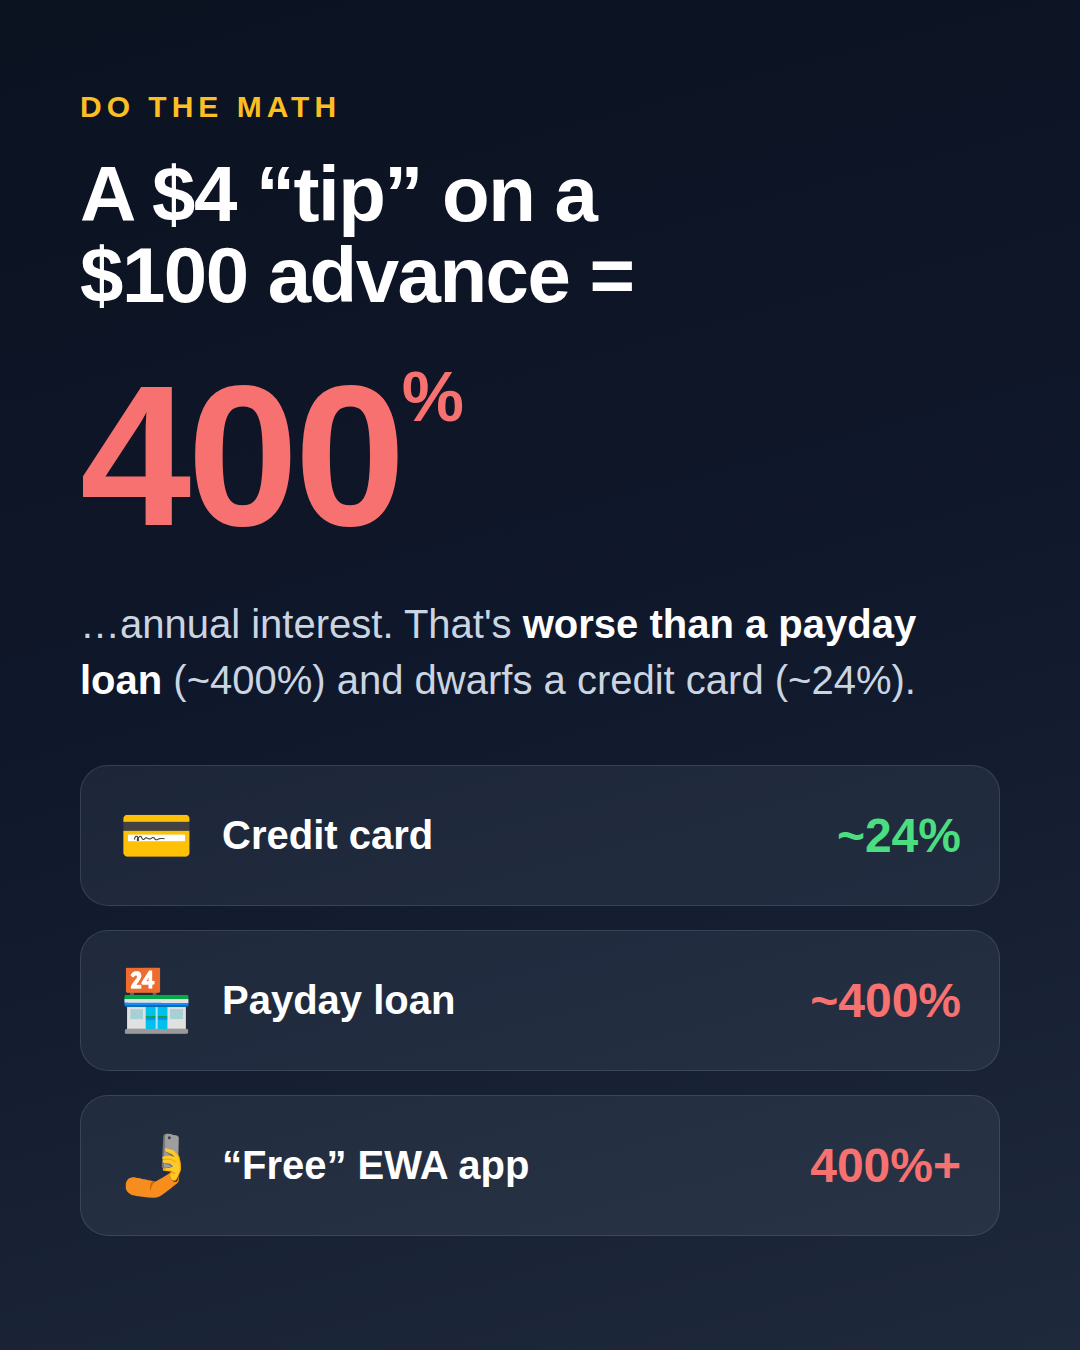
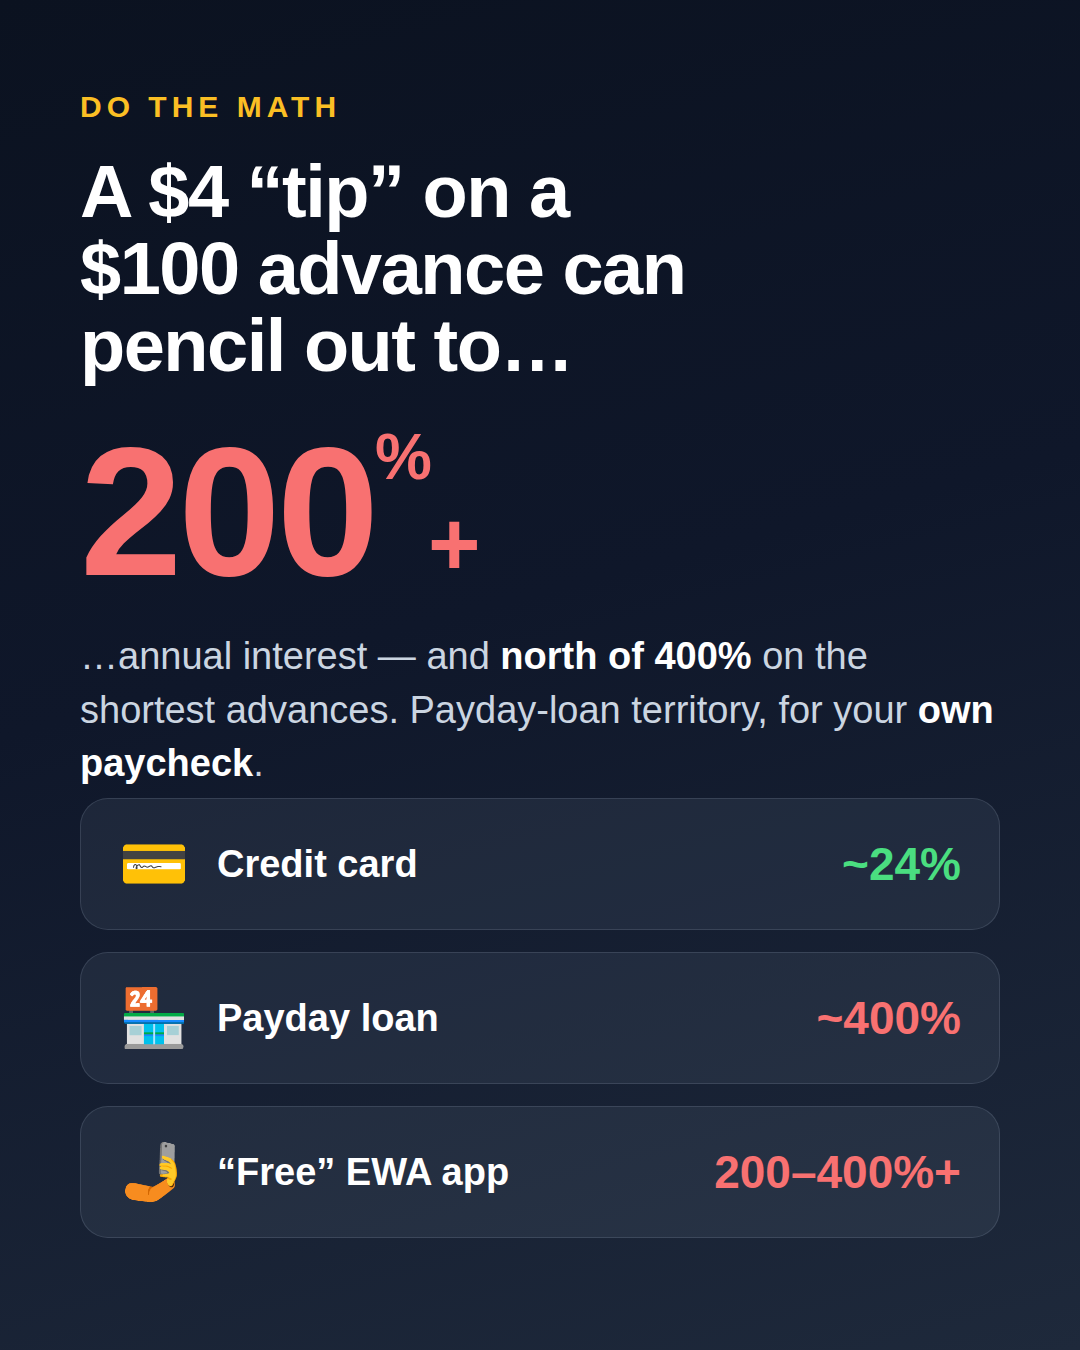
soften EWA claims in social assets for accuracy
- carousel-2: reframe headline APR from "400%" to "200%+ (north of 400%
  on shortest advances)" so it holds on any repayment term
- captions: use category-level "apps like..." framing instead of
  attributing tips/memberships to all four named apps (DailyPay is
  fee-based, not tip-based); replace flat "400%" with "triple-digit APR"

Claude-Session: https://claude.ai/code/session_01UvPqbFmcMvGB2GWGapi6UP

diff --git a/promo/CAPTIONS.md b/promo/CAPTIONS.md
@@ -9,14 +9,15 @@ the member's behalf, never preachy. No real money moves — it's an educational 
 
 **Caption:**
 
-"It's your pay — get it now, for free!" 🤔 Except it's not free.
+"It's your pay — get it now, for free!" 🤔 Except it's usually not free.
 
-Earned-wage-access apps — DailyPay, Dave, EarnIn, MoneyLion — promise instant
-access to money you've already earned. Then they nickel-and-dime you with
-"instant" fees, monthly memberships, and "tips" that aren't really optional.
+Earned-wage-access apps promise instant access to money you've already earned.
+Then, depending on the app, they get you with some mix of "instant" transfer
+fees, monthly memberships, and suggested "tips" that don't feel very optional.
 
-Add it up and a $4 "tip" on a $100 advance works out to a 400%+ APR. That's
-payday-loan territory — to get your OWN paycheck a few days early.
+Add it up and a small "tip" or fee on a short advance can pencil out to a
+triple-digit APR — often 200%+, and into payday-loan territory on the shortest
+advances. All to get your OWN paycheck a few days early.
 
 We rebuilt the actual screens so you can see the tricks for yourself. Swipe
 through, then play the 2-minute simulation 👉 link in bio.
@@ -52,9 +53,9 @@ Play it yourself (no real money, promise): ewademo.genesee.coop 🔗
 ## Facebook — Single image (use feed-square.png)
 
 "It's your pay. Get it now — for free." That's the pitch from earned-wage-access
-apps like DailyPay, Dave, and EarnIn. The reality? Instant-transfer fees, monthly
-memberships, and "tips" that quietly add up to a 400%+ APR — just to get the money
-you already earned a few days early.
+apps. The reality? Depending on the app, some combination of instant-transfer
+fees, monthly memberships, and suggested "tips" that can quietly add up to a
+triple-digit APR — just to get the money you already earned a few days early.
 
 We built a free, 2-minute simulation that walks you through the exact screens —
 the fake countdowns, the upsells, the guilt-trip tip prompts — so you can see how
@@ -73,10 +74,10 @@ union line of credit can cost a fraction of what these apps extract over a year.
 
 Short week? Before you tap "get paid early," know what it costs.
 
-Earned-wage-access apps market themselves as free. They're not — between
-"instant" fees, $9.99/mo memberships, and suggested "tips," frequent users pay
-hundreds of dollars a year. On a single advance, the math often pencils out to a
-400%+ APR.
+Earned-wage-access apps market themselves as free. They're usually not — between
+"instant" fees, monthly memberships, and suggested "tips," frequent users can pay
+hundreds of dollars a year. On a single short advance, the math often pencils out
+to a triple-digit APR — payday-loan territory.
 
 Our new educational simulator lets you click through the whole experience in
 about two minutes. See the dark patterns up close, then see what a credit union
@@ -89,7 +90,7 @@ alternative would have saved you.
 ## Short-form hooks (for Reels/TikTok text-on-screen or A/B testing captions)
 
 - "This app says your paycheck advance is free. Here's the receipt."
-- "400% APR — and they call it a tip."
+- "Triple-digit APR — and they call it a tip."
 - "I played the 'free' money app so you don't have to."
 - "The countdown timer is fake. The fee is not."
 - "Your pay, a few days early. Cost: a payday-loan interest rate."
